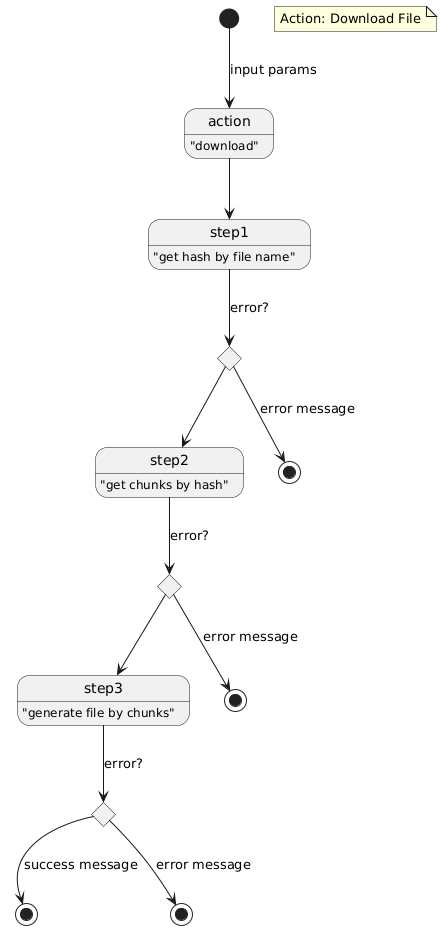
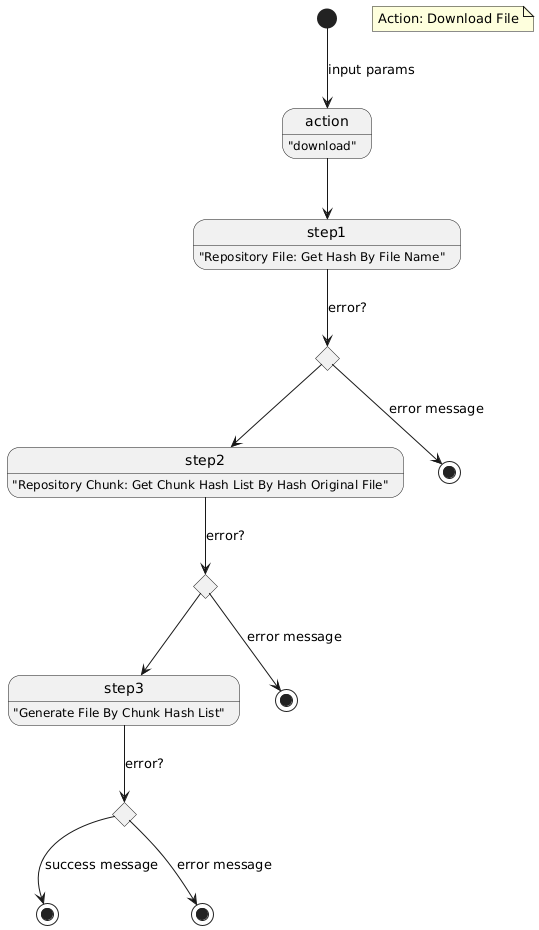
Atualizado documentação.

diff --git a/src/repository/repository_file_sqlite.go b/src/repository/repository_file_sqlite.go
@@ -22,21 +22,21 @@ func (rfs RepositoryFileSqlite) Create(file model.File) (int64, error) {
 	return id, err
 }
 
-func (rfs RepositoryFileSqlite) GetHashByFileName(fileName string) (string, error) {
-	var name string
+func (rfs RepositoryFileSqlite) GetHashByName(name string) (string, error) {
+	var fileName string
 	db, err := getConectionSqlite()
 	if err != nil {
-		return name, err
+		return fileName, err
 	}
 	defer db.Close()
 
 	query := `SELECT hash FROM files WHERE name = ?`
-	err = db.QueryRow(query, fileName).Scan(&name)
+	err = db.QueryRow(query, name).Scan(&fileName)
 	if err == sql.ErrNoRows {
-		return name, nil
+		return fileName, nil
 	}
 
-	return name, err
+	return fileName, err
 }
 
 func (rfs RepositoryFileSqlite) IsExistsByHashFile(hashFile string) (bool, error) {

diff --git a/src/repository/repository_file_json.go b/src/repository/repository_file_json.go
@@ -44,7 +44,7 @@ func (rfj RepositoryFileJson) Create(file model.File) (int64, error) {
 	return id, nil
 }
 
-func (rfj RepositoryFileJson) GetHashByFileName(fileName string) (string, error) {
+func (rfj RepositoryFileJson) GetHashByName(name string) (string, error) {
 	jsonFile, err := os.Open(os.Getenv("COLLECTION_JSON_FILE"))
 	if err != nil {
 		return "", err
@@ -59,7 +59,7 @@ func (rfj RepositoryFileJson) GetHashByFileName(fileName string) (string, error)
 	}
 
 	for _, item := range hashList {
-		if item.Name == fileName {
+		if item.Name == name {
 			return item.Hash, nil
 		}
 	}

diff --git a/src/internal/service/download.go b/src/internal/service/download.go
@@ -8,7 +8,7 @@ import (
 
 func (ac *Action) FeatureDownload() error {
 	logger.GetLogActivity().WriteLog("Carregando Hash do arquivo...")
-	hashOriginalFile, err := repositoryFile.GetHashByFileName(ac.FileTarget)
+	hashOriginalFile, err := repositoryFile.GetHashByName(ac.FileTarget)
 	if err != nil {
 		return err
 	}

diff --git a/src/internal/service/remove.go b/src/internal/service/remove.go
@@ -7,7 +7,7 @@ import (
 
 func (ac *Action) FeatureRemove() error {
 	logger.GetLogActivity().WriteLog("Obtendo Hash do arquivo...")
-	hashOriginalFile, err := repositoryFile.GetHashByFileName(ac.FileTarget)
+	hashOriginalFile, err := repositoryFile.GetHashByName(ac.FileTarget)
 	if err != nil {
 		return err
 	}

diff --git a/src/repository/repository.go b/src/repository/repository.go
@@ -13,7 +13,7 @@ const (
 
 type RepositoryFile interface {
 	Create(model.File) (int64, error)
-	GetHashByFileName(string) (string, error)
+	GetHashByName(string) (string, error)
 	IsExistsByHashFile(string) (bool, error)
 	RemoveAll() error
 	RemoveByHashFile(string) error

diff --git a/metrics.md b/metrics.md
@@ -15,39 +15,38 @@ Para gerar métrica de complexidade ciclomática foi utilizado o [gocyclo](https
 ## Overview
 ```bash
 gocyclo ./src/cmd
-7 main main src/cmd/main.go:13:1
-2 main validArgAction src/cmd/main.go:56:1
-1 main validArgFileTarget src/cmd/main.go:68:1
+8 main main src/cmd/main.go:18:1
+2 main isValidConfigRepositorty src/cmd/main.go:91:1
+2 main isValidArgAction src/cmd/main.go:75:1
+1 main isValidArgFileTarget src/cmd/main.go:87:1
 
-gocyclo ./src/internal/actions/
-11 actions (*Action).processChunk src/internal/actions/upload.go:155:1
-9 actions Execute src/internal/actions/action.go:39:1
-8 actions (*Action).FeatureRemove src/internal/actions/remove.go:9:1
-7 actions (*Action).addHashToCollection src/internal/actions/upload.go:100:1
-7 actions (*Action).removeHashToCollection src/internal/actions/remove.go:115:1
-7 actions (*Action).removeHashFileToChunkCollection src/internal/actions/remove.go:81:1
-7 actions (*Action).FeatureClear src/internal/actions/clear.go:9:1
-6 actions (*Action).isNewFile src/internal/actions/upload.go:53:1
-6 actions (*Action).FeatureUpload src/internal/actions/upload.go:15:1
-5 actions (*Action).generateFileByChunks src/internal/actions/download.go:26:1
-5 actions (*Action).getChunksByHash src/internal/actions/action.go:109:1
-5 actions (*Action).getHashByFileName src/internal/actions/action.go:86:1
-4 actions (*Action).saveChunkBin src/internal/actions/upload.go:215:1
-4 actions (*Action).sendFileToTmp src/internal/actions/upload.go:134:1
-4 actions (*Action).isChunkCanBeRemoved src/internal/actions/remove.go:49:1
-3 actions (*Action).GenerateHashFile src/internal/actions/upload.go:81:1
-3 actions (*Action).getCountChunkMap src/internal/actions/remove.go:71:1
-3 actions (*Action).FeatureDownload src/internal/actions/download.go:9:1
-3 actions (*Action).cleanTmp src/internal/actions/clear.go:74:1
-3 actions (*Action).cleanStorage src/internal/actions/clear.go:59:1
-2 actions (*Action).resetHashCollection src/internal/actions/clear.go:51:1
-2 actions (*Action).resetChunkCollection src/internal/actions/clear.go:43:1
-1 actions (*Action).removeFileToTmp src/internal/actions/upload.go:232:1
-1 actions (*Action).GetActionType src/internal/actions/action.go:82:1
-1 actions MakeAction src/internal/actions/action.go:35:1
+gocyclo ./src/internal/service/
+9 service (*Action).FeatureUpload src/internal/service/upload.go:15:1
+9 service Execute src/internal/service/action.go:41:1
+7 service (Action).GenerateChunkByHashFile src/internal/service/upload.go:105:1
+7 service (Action).GenerateChunksToStorage src/internal/service/upload.go:76:1
+7 service (*Action).FeatureRemove src/internal/service/remove.go:8:1
+7 service (*Action).FeatureClear src/internal/service/clear.go:7:1
+5 service (*Action).generateFileByChunkHashList src/internal/service/download.go:26:1
+4 service (Storage).CreateFile src/internal/service/storage.go:16:1
+3 service (*Action).GenerateHashFile src/internal/service/upload.go:142:1
+3 service (TemporaryArea).CreateFileByFileSource src/internal/service/temporary_area.go:35:1
+3 service (TemporaryArea).Clear src/internal/service/temporary_area.go:16:1
+3 service (Storage).Clear src/internal/service/storage.go:33:1
+3 service (*Action).FeatureDownload src/internal/service/download.go:9:1
+2 service (Action).isNewFile src/internal/service/upload.go:167:1
+2 service (*Action).SendFileToTmp src/internal/service/upload.go:158:1
+1 service (TemporaryArea).RemoveFile src/internal/service/temporary_area.go:50:1
+1 service (TemporaryArea).GetFile src/internal/service/temporary_area.go:31:1
+1 service MakeServiceTemporaryArea src/internal/service/temporary_area.go:12:1
+1 service (Storage).RemoveFile src/internal/service/storage.go:52:1
+1 service (Storage).GetFile src/internal/service/storage.go:48:1
+1 service MakeServiceStorage src/internal/service/storage.go:12:1
+1 service (Action).GetActionType src/internal/service/action.go:84:1
+1 service MakeAction src/internal/service/action.go:28:1
 
 gocyclo ./src/logger/
-3 logger (*Log).ClearLog src/logger/log.go:90:1
+3 logger (*Log).Clear src/logger/log.go:90:1
 3 logger (*Log).WriteLog src/logger/log.go:31:1
 2 logger (*Log).WriteLogMessageInfo src/logger/log.go:80:1
 2 logger (*Log).WriteLogMessageError src/logger/log.go:70:1
@@ -56,6 +55,52 @@ gocyclo ./src/logger/
 1 logger GetLogError src/logger/log.go:27:1
 1 logger GetLogActivity src/logger/log.go:23:1
 1 logger LogSetConfig src/logger/log.go:19:1
+
+gocyclo ./src/repository/
+12 repository (RepositoryChunkSqlite).RemoveByHashOriginalFile src/repository/repository_chunk_sqlite.go:179:1
+10 repository (RepositoryChunkJson).RemoveByHashOriginalFile src/repository/repository_chunk_json.go:100:1
+8 repository (RepositoryChunkSqlite).GetChunkHashListByHashOriginalFile src/repository/repository_chunk_sqlite.go:71:1
+7 repository (RepositoryFileJson).RemoveByHashFile src/repository/repository_file_json.go:93:1
+7 repository (RepositoryFileJson).Create src/repository/repository_file_json.go:12:1
+7 repository (RepositoryChunkHasChunkHashSqlite).CountChunkHashByChunkId src/repository/repository_chunk_has_chunk_hash_sqlite.go:28:1
+6 repository (RepositoryChunkSqlite).RemoveAll src/repository/repository_chunk_sqlite.go:138:1
+6 repository (RepositoryChunkSqlite).Create src/repository/repository_chunk_sqlite.go:11:1
+6 repository (RepositoryChunkHasChunkHashSqlite).GetChunkHashIdsByChunkId src/repository/repository_chunk_has_chunk_hash_sqlite.go:63:1
+5 repository (RepositoryFileJson).IsExistsByHashFile src/repository/repository_file_json.go:70:1
+5 repository (RepositoryFileJson).GetHashByName src/repository/repository_file_json.go:47:1
+5 repository (RepositoryChunkSqlite).createChunkList src/repository/repository_chunk_sqlite.go:50:1
+5 repository (RepositoryChunkJson).GetChunkHashListByHashOriginalFile src/repository/repository_chunk_json.go:41:1
+5 repository (RepositoryChunkJson).Create src/repository/repository_chunk_json.go:12:1
+4 repository (RepositoryFileSqlite).IsExistsByHashFile src/repository/repository_file_sqlite.go:42:1
+4 repository (RepositoryChunkHashSqlite).RemoveByChunkHashIds src/repository/repository_chunk_hash_sqlite.go:73:1
+3 repository (RepositoryFileSqlite).GetIdByHashFile src/repository/repository_file_sqlite.go:90:1
+3 repository (RepositoryFileSqlite).RemoveAll src/repository/repository_file_sqlite.go:74:1
+3 repository (RepositoryFileSqlite).GetHashByName src/repository/repository_file_sqlite.go:25:1
+3 repository (RepositoryChunkSqlite).getIdByFileId src/repository/repository_chunk_sqlite.go:243:1
+3 repository (RepositoryChunkSqlite).CountChunkHash src/repository/repository_chunk_sqlite.go:116:1
+3 repository (RepositoryChunkJson).CountChunkHash src/repository/repository_chunk_json.go:74:1
+3 repository (RepositoryChunkJson).getCountChunkMap src/repository/repository_chunk_json.go:64:1
+3 repository (RepositoryChunkHashSqlite).GetHashById src/repository/repository_chunk_hash_sqlite.go:46:1
+3 repository (RepositoryChunkHashSqlite).GetIdByHash src/repository/repository_chunk_hash_sqlite.go:29:1
+3 repository (RepositoryChunkHashSqlite).Create src/repository/repository_chunk_hash_sqlite.go:10:1
+3 repository MakeRepositoryChunk src/repository/repository.go:46:1
+3 repository MakeRepositoryFile src/repository/repository.go:35:1
+2 repository (RepositoryFileSqlite).RemoveByHashFile src/repository/repository_file_sqlite.go:63:1
+2 repository (RepositoryFileSqlite).Create src/repository/repository_file_sqlite.go:12:1
+2 repository (RepositoryFileJson).RemoveAll src/repository/repository_file_json.go:127:1
+2 repository (RepositoryChunkSqlite).removeAll src/repository/repository_chunk_sqlite.go:169:1
+2 repository (RepositoryChunkJson).isChunkHashCanBeRemoved src/repository/repository_chunk_json.go:150:1
+2 repository (RepositoryChunkJson).RemoveAll src/repository/repository_chunk_json.go:92:1
+2 repository (RepositoryChunkHashSqlite).RemoveAll src/repository/repository_chunk_hash_sqlite.go:63:1
+2 repository (RepositoryChunkHasChunkHashSqlite).RemoveAll src/repository/repository_chunk_has_chunk_hash_sqlite.go:13:1
+2 repository ping src/repository/repository.go:66:1
+2 repository getConectionSqlite src/repository/repository.go:57:1
+1 repository (RepositoryChunkSqlite).removeByChunkId src/repository/repository_chunk_sqlite.go:238:1
+1 repository (RepositoryChunkSqlite).create src/repository/repository_chunk_sqlite.go:43:1
+1 repository (RepositoryChunkHashSqlite).RemoveByChunkHashId src/repository/repository_chunk_hash_sqlite.go:91:1
+1 repository (RepositoryChunkHashSqlite).create src/repository/repository_chunk_hash_sqlite.go:23:1
+1 repository (RepositoryChunkHasChunkHashSqlite).RemoveByChunkId src/repository/repository_chunk_has_chunk_hash_sqlite.go:23:1
+1 repository (RepositoryChunkHasChunkHashSqlite).Create src/repository/repository_chunk_has_chunk_hash_sqlite.go:7:1
 ```
 
 [README](./README.md)

diff --git a/analysis.md b/analysis.md
@@ -8,22 +8,24 @@ O uso de arquivos auxiliares (config) *.json*, pode ocorrer locks e ficar com co
 
 ## Código
 A lista abaixo são pontos de atenção que serão gerados _issues_:
-- Algumas constantes devem ser migradas para arquivo .env para organizar os dados de configuração.
-- As estruturas `hashFile`, `hashFileItem`, `chunkFile` e `chunkFileItem` não devem estar relacionados a implementação, `File`, essas estruturas devem atender somente ao modelo de aplicação não fazendo referência a origem de dados.
+- [#1](https://github.com/psaraiva/lab-go-chunk/issues/1) ~~Algumas constantes devem ser migradas para arquivo .env para organizar os dados de configuração.~~
+- [#2](https://github.com/psaraiva/lab-go-chunk/issues/2) ~~As estruturas `hashFile`, `hashFileItem`, `chunkFile` e `chunkFileItem` não devem estar relacionados a implementação, `File`, essas estruturas devem atender somente ao modelo de aplicação não fazendo referência a origem de dados.~~
 - As actions `upload`, `donwload`, `clear` e `remove` devem seguir uma máquina de estado para permitir seu processamento assíncrono.
 - Deve ser desenvolvido a funcionalidade de *consulta de status* para o usuário saber qual andamento da transação.
 - Deve ser desenvolvido a funcionalidade de *versionamento de arquivos*.
-- O arquivo action.go faz muita coisa, é necessário quebrar em outros arquivos conforme as responsabilidades.
-- A actions devem ter uma interface em comum para melhor flexibilidade.
+- [#6](https://github.com/psaraiva/lab-go-chunk/issues/6) ~~O arquivo action.go faz muita coisa, é necessário quebrar em outros arquivos conforme as responsabilidades.~~
+- [#7](https://github.com/psaraiva/lab-go-chunk/issues/7) ~~A actions devem ter uma interface em comum para melhor flexibilidade.~~
 - Uma fábrica de action deve ser desenvolvida.
 - O uso de Logs deve ser embutido na action para uso interno.
-- Cada action deve ter seu próprio arquivo `.go`
+- [#6](https://github.com/psaraiva/lab-go-chunk/issues/6) ~~Cada action deve ter seu próprio arquivo `.go`~~
 - Cada etapa de uma action deve seguir ACID.
-- A aplicação deve usar *SQLite* para armazenas os arquivos.
-- Usar padrão repository junto ao *SQLite*.
+- [#13](https://github.com/psaraiva/lab-go-chunk/issues/13) ~~A aplicação deve usar *SQLite* para armazenas os arquivos.~~
+- [#13](https://github.com/psaraiva/lab-go-chunk/issues/13) ~~Usar padrão repository junto ao *SQLite*.~~
 - Desenvolver testes unitários.
 - Uso de Logs deve ser migrado de arquivo texto para banco de dados.
 - Atualizar a documentação conforme as altrações.
+
+*Obs: Para acompanhar a lista de tarefas aberto, consulte o issues desse projeto.
 
 ## Observação
 Existe alguns outros pontos de serão explorados após a conclusão da lista acima.
